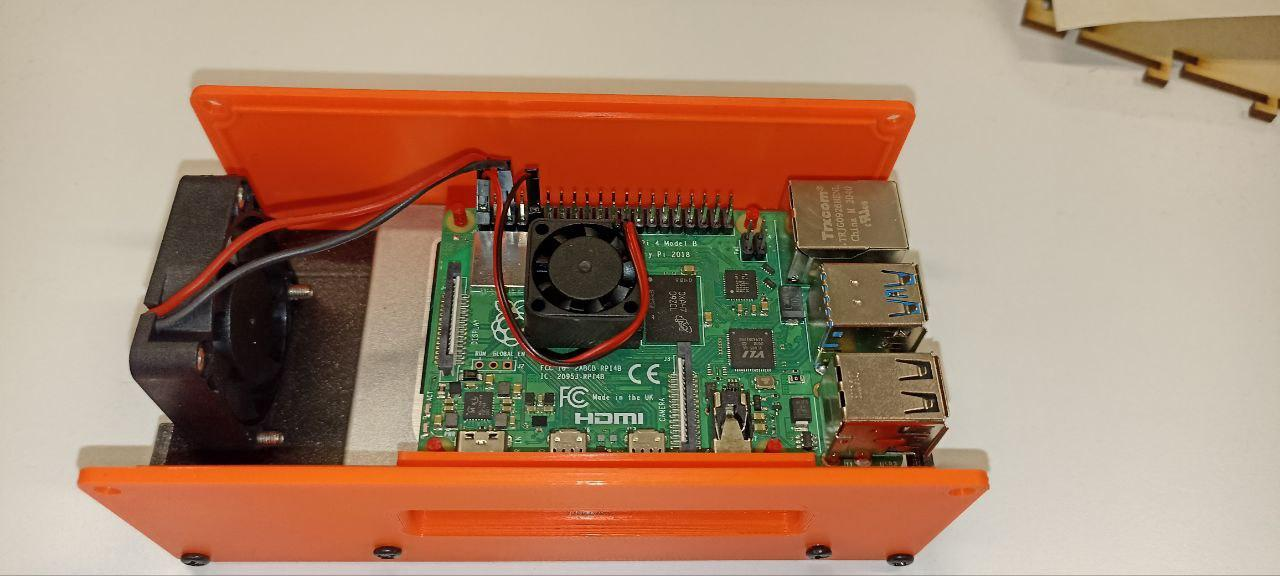
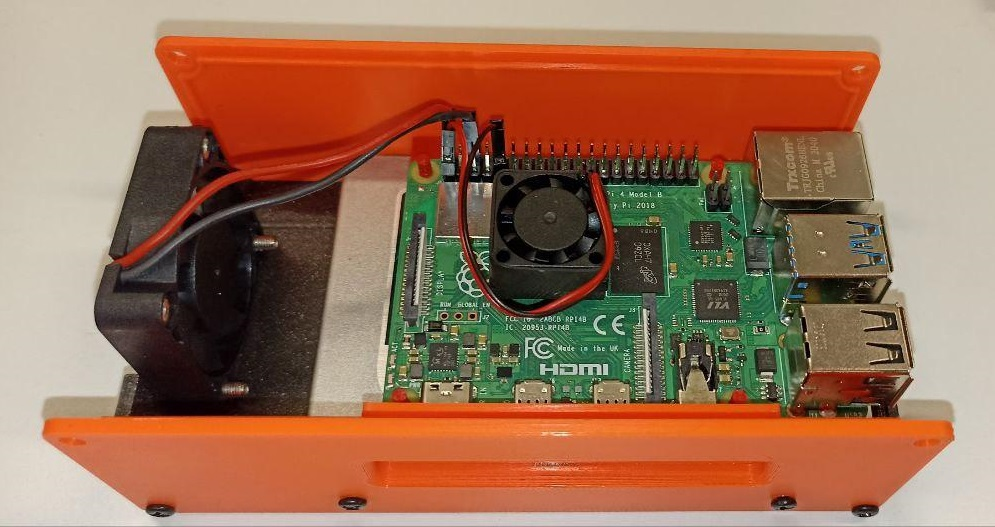
some work

diff --git a/src/app/content/2022/220504-raspi-tooling/raspi-tooling.component.html b/src/app/content/2022/220504-raspi-tooling/raspi-tooling.component.html
@@ -1,8 +1,70 @@
 <app-post-body [post]="this.post" [date]="this.post.date">
-- Raspberry PI
-- Shell
-"pic of shell"
-- Small deployed web service
+  <p>I was recently asked whether I could a family member out, as they needed a custom inventory management platform for pieces of a family art collection.</p>
+  <p>I accepted, although I probably shouldn't have.</p>
+  <p>I'll go over how the project services were designed, how it is being hosted, and more, in this article.</p>
+
+  <h4>Run-down</h4>
+  <ul>
+    <li><a class='no-underline' routerLink='.' fragment='the-service-architecture'>The service architecture</a></li>
+    <li><a class='no-underline' routerLink='.' fragment='the-pi'>The Pi</a></li>
+    <li><a class='no-underline' routerLink='.' fragment='what-does-it-run'>What does it run?</a></li>
+  </ul>
+
+  <hr/>
+  <h4 id='the-service-architecture'>The service architecture</h4>
+  <p>The project follows a pretty simple design: the web frontend is how the user interacts with the service, the backend is how the service saves the data to a database.</p>
+  <p>Due to my past experience, I decided to write the frontend in Angular, and the backend in Python, using FastAPI as the middleware. The database would use PostgreSQL</p>
+
+  <br/>
+  <h4 id='the-pi'>The Pi</h4>
+  <p>For a myriad of reasons, we decided to use a local system, and decided to do so on a Raspberry Pi 4.</p>
+  <p>The Pi has a number of advantages, but the one I retained was that one could have it boot off of an SSD, rather than the traditional SD card.</p>
+  <p>Another neat thing is that there are a lot of case designs to 3D print, and I found a design that allows for an SSD, and additional ventilation fans.</p>
+
+  <br/>
+  <p>Link thingiverse</p>
+  <p>The first element was to fit the SSD into the casing. In order to have it snug against the base, I flipped it from its original configuration.</p>
+
+  <div class='media-container'>
+    <img src='/assets/images/2022/220504-raspi-tooling/ssd.jpg' alt='The base casing with the SSD'>
+    <span><em>The base casing with the SSD</em></span>
+  </div>
+
+  <p>This meant that, in order to have the Pi itself fit snugly in the casing, a strut of sorts was needed. I designed it by using the RasPi design sheet.</p>
+
+  <div class='media-container'>
+    <img src='/assets/images/2022/220504-raspi-tooling/support.jpg' alt='The RaspberryPi strut'>
+    <span><em>The RaspberryPi strut</em></span>
+  </div>
+
+  <p>The Raspberry Pi then aligned perfectly with the holes in the casing, letting me start with the ventilation, which consists of a CPU heatsink/ventilator unit, and a casing 40mm ventilator.</p>
+
+  <div class='media-container'>
+    <img src='/assets/images/2022/220504-raspi-tooling/raspi-fitting.jpg' alt='The fitted RaspberryPi'>
+    <span><em>The fitted RaspberryPi</em></span>
+  </div>
+
+  <div class='media-container'>
+    <img src='/assets/images/2022/220504-raspi-tooling/ventilation.jpg' alt='The RaspberryPi with the ventilation'>
+    <span><em>The RaspberryPi with the ventilation</em></span>
+  </div>
+
+  <p>The final device, bar some cables, looks like this:</p>
+
+  <div class='media-container'>
+    <img src='/assets/images/2022/220504-raspi-tooling/closed.jpg' alt='The completed RaspberryPi'>
+  </div>
+
+  <br/>
+  <h4 id='what-does-it-run'>What does it run?</h4>
+
+  <p>From the get go I decided that I would use containerized applications, probably using Docker.</p>
+  <p>This somewhat restricted my choice of platforms, so I went with a very lightweight and headless version of Ubuntu, which I flashed onto the SSD.</p>
+
+  <p>I then installed containerd, docker and docker-compose for the management of our services.</p>
+  <p></p>
+
+  - Small deployed web service
 - Ubuntu
 - Docker
 - ufw

diff --git a/src/app/routing/app.sub-routes-2022.ts b/src/app/routing/app.sub-routes-2022.ts
@@ -114,7 +114,6 @@ export const subroutes2022: Routes = [
       date: [2022, 4, 26]
     }
   },
-  /*
   {
     path: '2022_05_04+Building-a-raspi-private-web-server',
     component: May2022RaspiToolingComponent,
@@ -126,6 +125,7 @@ export const subroutes2022: Routes = [
       date: [2022, 5, 4]
     }
   },
+  /*
   {
     path: '2022_05_15+winning-the-wavegame',
     component: May2022WavegameComponent,

diff --git a/src/app/content/2022/220504-raspi-tooling/raspi-tooling.component.scss b/src/app/content/2022/220504-raspi-tooling/raspi-tooling.component.scss
@@ -1,0 +1,3 @@
+img {
+  width: 50%;
+}
